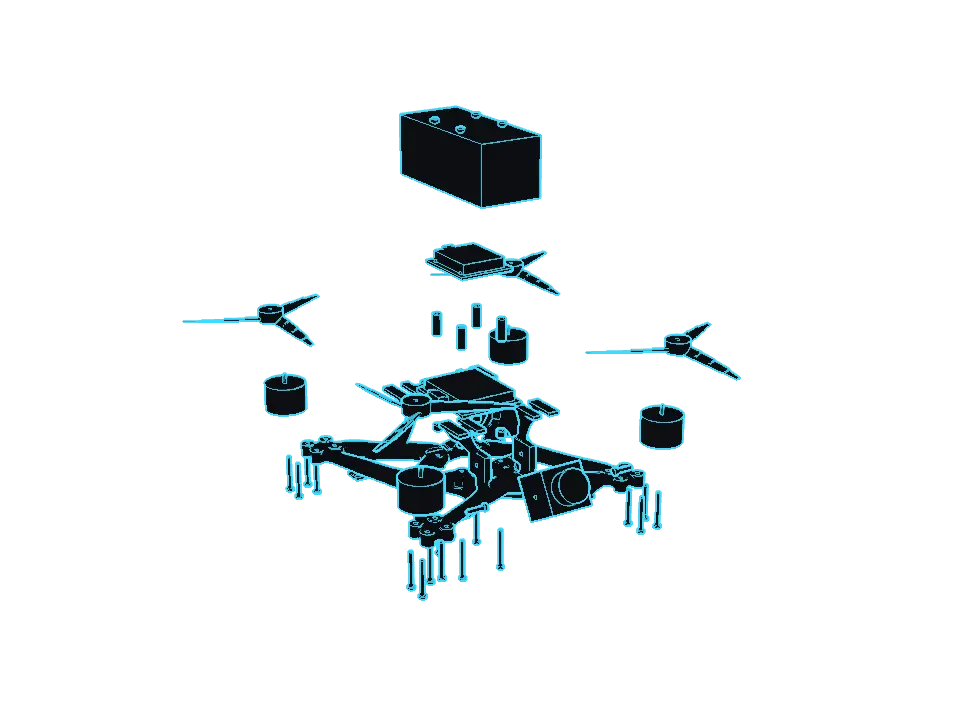
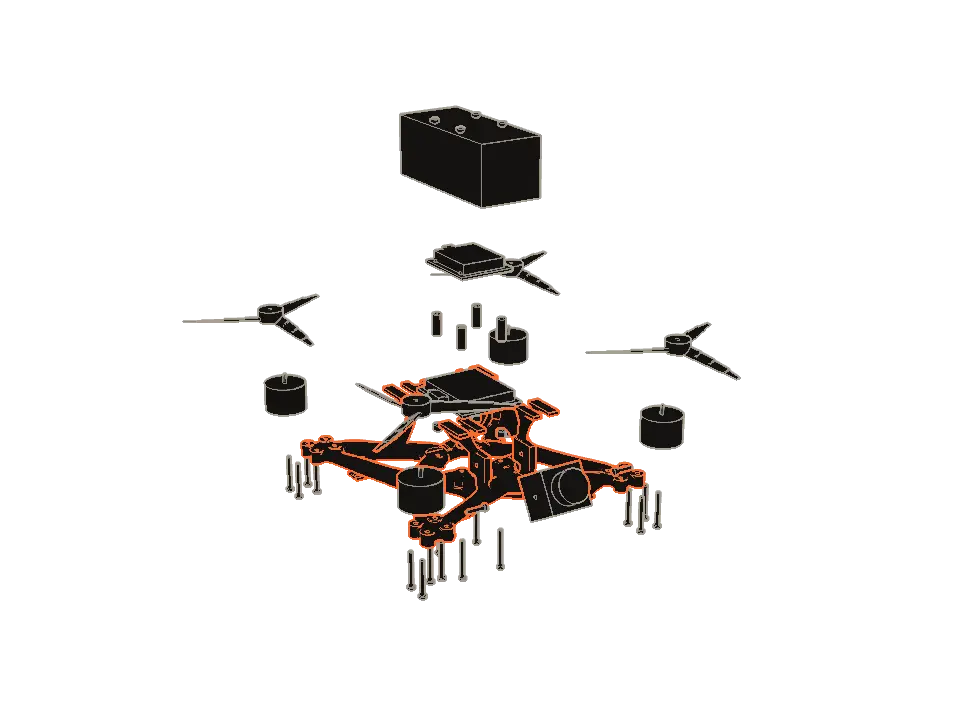
Hero drawing: the frame Dom designed in orange, the bought-in parts in neutral ink; no glow
explode.html can now redraw one part (the frame, Body1) in its own colour over the
rest, so the colour says whose work it is. Re-rendered on the new graphite with no
baked or CSS glow: 24 frames, 530 KB (was 611 KB).

diff --git a/tools/hero/explode.html b/tools/hero/explode.html
@@ -13,7 +13,8 @@ import { GROUPS, POSES, MOVES, FOV, G_VERT, G_FRAG, INK_VERT, INK_FRAG } from ".
 
 const Q = new URLSearchParams(location.search);
 const W = +(Q.get("w") || 1280), H = +(Q.get("h") || 960), N = +(Q.get("n") || 36), QUAL = +(Q.get("q") || 0.8);
-const INK = Q.get("ink") || "#3DDCFF", FILL = Q.get("fill") || "#0D0E11", GLOW = Q.get("glow") !== "0";
+// INK draws every part; FRAME redraws the frame alone (Body1, the part Dom designed) on top, so it stands out
+const INK = "#" + (Q.get("ink") || "3DDCFF"), FILL = "#" + (Q.get("fill") || "0D0E11"), FRAME = Q.get("frame") ? "#" + Q.get("frame") : null, GLOW = Q.get("glow") !== "0";
 const MM = 0.001, DEG = Math.PI / 180;
 const clamp = (v, a, b) => v < a ? a : v > b ? b : v;
 const smooth = (a, b, v) => { const t = clamp((v - a) / (b - a), 0, 1); return t * t * (3 - 2 * t); };
@@ -38,7 +39,7 @@ new GLTFLoader().setMeshoptDecoder(MeshoptDecoder).load("../../models/frame.glb"
       const out = mv[5] === "side" ? new THREE.Vector3(Math.sign(c.x), 0, 0) : new THREE.Vector3(Math.sign(c.x), 0, Math.sign(c.z)).normalize();
       off.addScaledVector(out, mv[1] * MM); off.y += mv[2] * MM; off.z -= mv[3] * MM;
     }
-    return { mesh, base: mesh.position.clone(), off, t: mv ? mv[4] : 0,
+    return { mesh, base: mesh.position.clone(), off, t: mv ? mv[4] : 0, frame: GROUPS[0][1].test(mesh.name),
       gmat: new THREE.ShaderMaterial({ vertexShader: G_VERT, fragmentShader: G_FRAG, uniforms: { uId: { value: (i + 1) / 255 }, uInk: { value: 1 } } }) };
   });
   // a little further apart than Fig. 02 (K), so the parts read at hero size
@@ -72,6 +73,15 @@ new GLTFLoader().setMeshoptDecoder(MeshoptDecoder).load("../../models/frame.glb"
     r.setRenderTarget(null); r.render(scene, cam);
     inkMat.uniforms.uN.value = cam.near; inkMat.uniforms.uF.value = cam.far;
     r.autoClear = false; r.render(inkScene, new THREE.Camera()); r.autoClear = true;
+    if (FRAME) {
+      // the frame's lines again, in its own colour: the other parts still write depth, so they hide it where they're in front
+      parts.forEach((q) => { q.gmat.uniforms.uInk.value = q.frame ? 1 : 0; q.mesh.material = q.gmat; });
+      r.setRenderTarget(rt); r.render(scene, cam); r.setRenderTarget(null);
+      inkMat.uniforms.uInk.value.set(FRAME);
+      r.autoClear = false; r.render(inkScene, new THREE.Camera()); r.autoClear = true;
+      inkMat.uniforms.uInk.value.set(INK);
+      parts.forEach((q) => { q.gmat.uniforms.uInk.value = 1; });
+    }
     g.clearRect(0, 0, W, H);
     if (GLOW) {
       g.filter = "blur(10px)"; g.globalAlpha = 0.55; g.drawImage(r.domElement, 0, 0);
